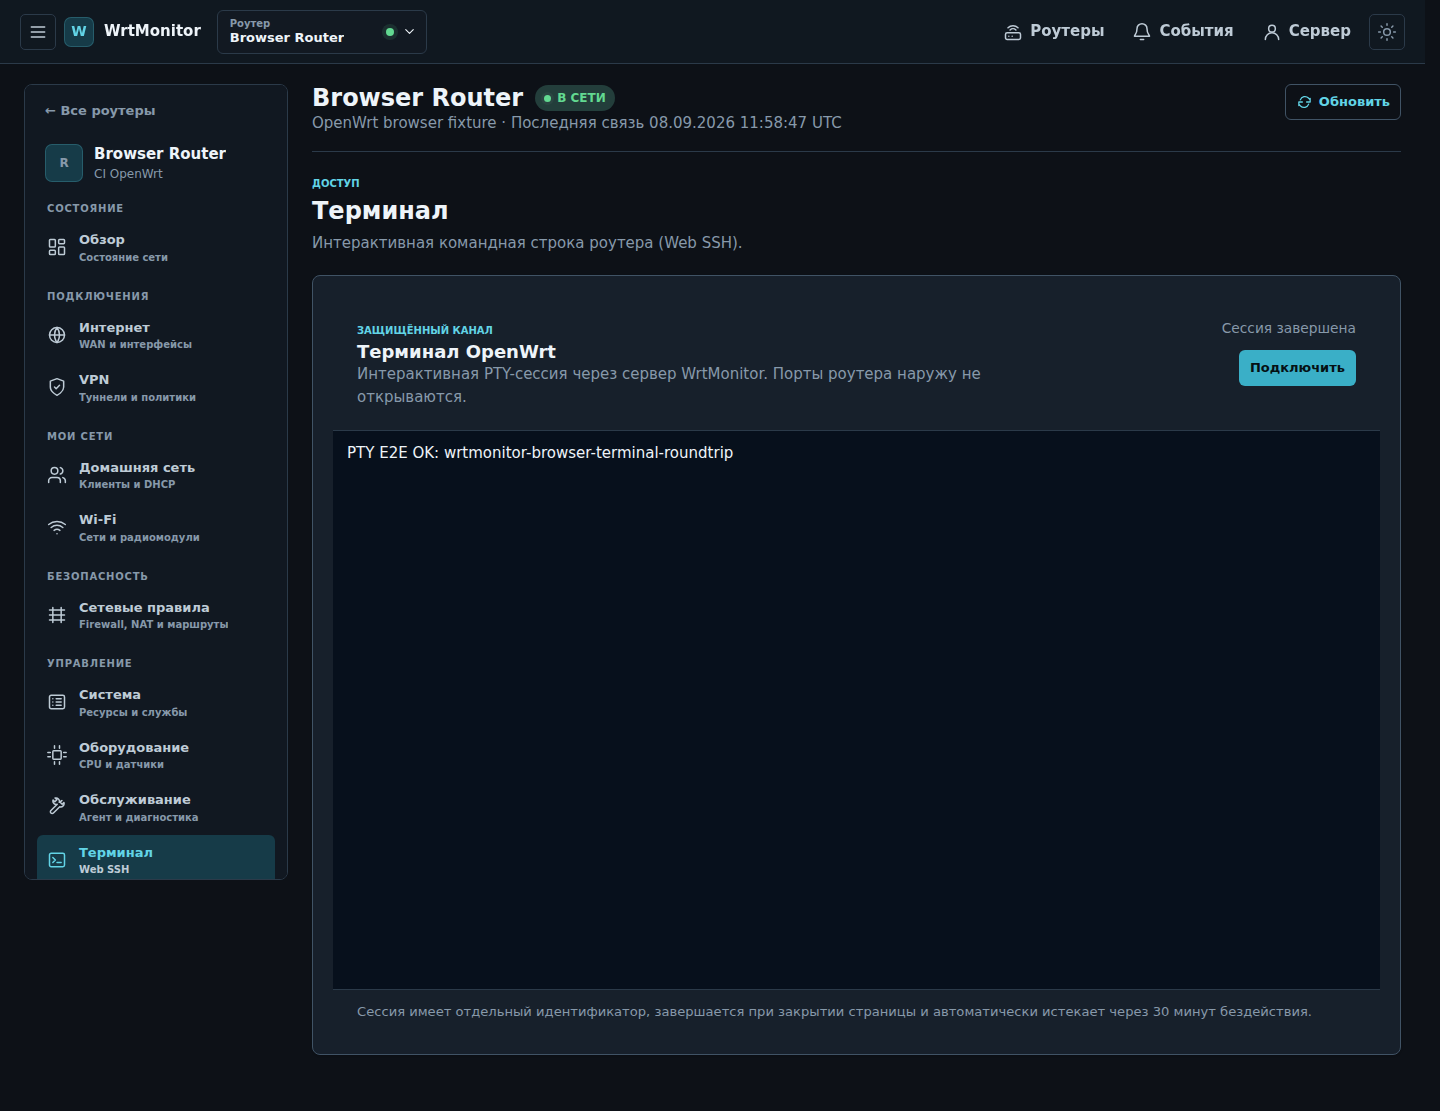
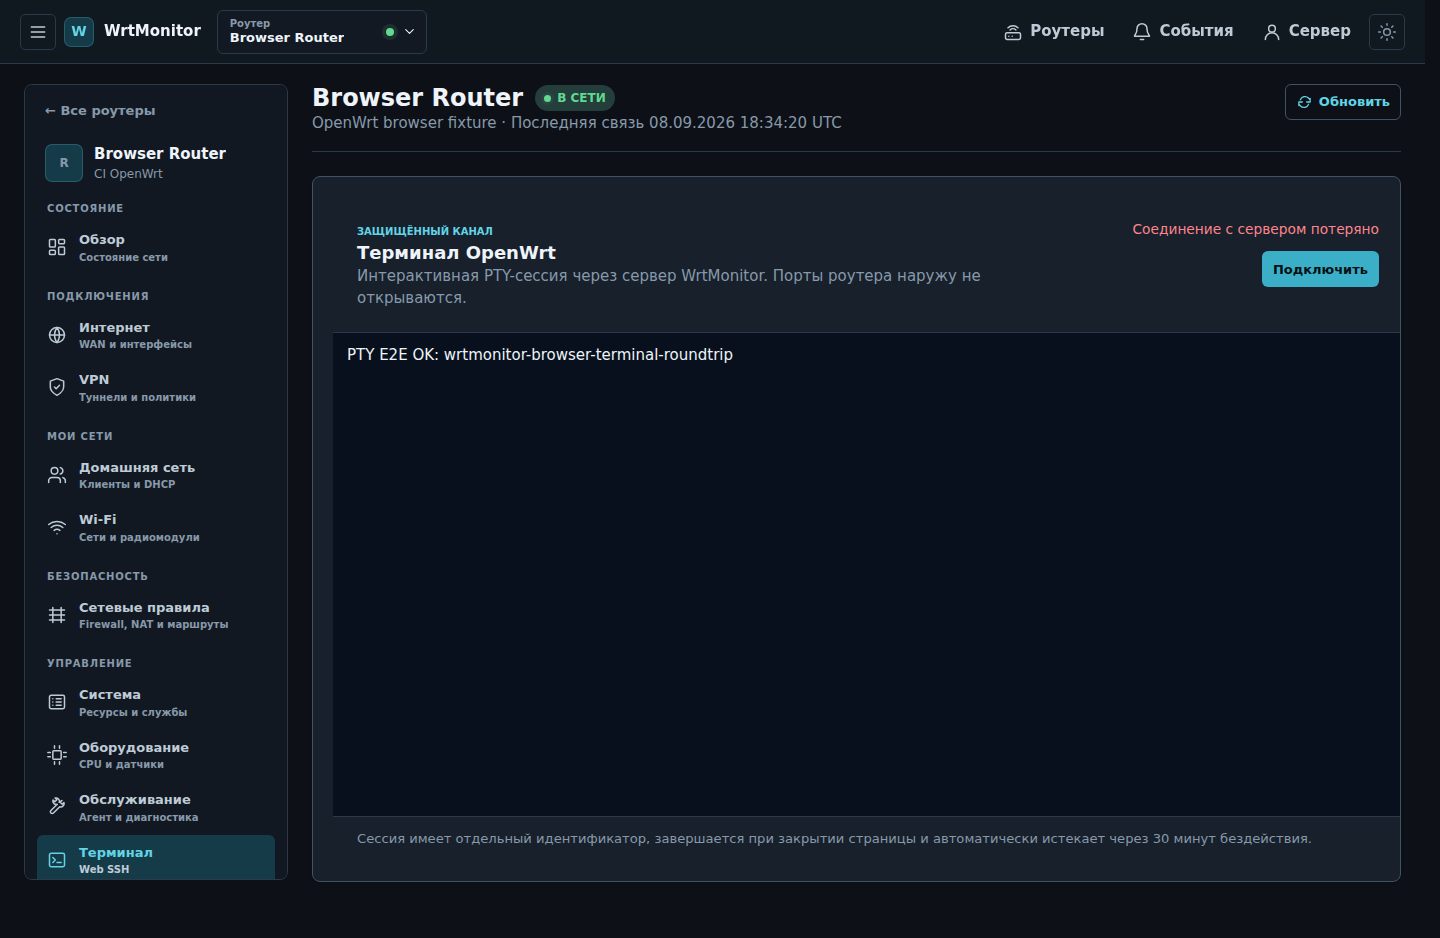
chore(release): prepare v0.55.1 terminal layout fix

diff --git a/RELEASE_NOTES.md b/RELEASE_NOTES.md
@@ -1,21 +1,17 @@
-# WrtMonitor v0.55.0 - Web Control Center
+# WrtMonitor v0.55.1 - Web Terminal Layout
 
-WebUI системно переработан как самостоятельная современная панель управления OpenWrt. Backend API, авторизация, telemetry и команды агента не менялись.
+Патч исправляет компоновку Web SSH после редизайна `0.55.0`. Backend API, авторизация, telemetry и команды агента не менялись.
 
-## Главное
+## Исправлено
 
-- единая светлая и тёмная Web design system, связанная с Android;
-- компактная top bar, глобальный router selector и сворачиваемая desktop sidebar;
-- адаптивный drawer и одноколоночная компоновка на tablet/mobile;
-- согласованные dashboard, tables, forms, statuses, dialogs и служебные экраны;
-- проверка изменений и видимая отправка команды без преждевременного сообщения об успехе;
-- keyboard navigation, skip link, focus-visible и reduced motion;
-- локальный набор сетевых иконок без CDN и emoji;
-- visual regression на шести размерах от 1920 до 390 px;
-- новые Web screenshots и полный отчёт в `docs/web-redesign-0.55.0.md`.
+- удалён повторяющийся заголовок «Терминал» над карточкой Web SSH;
+- desktop-карточка терминала целиком помещается в видимую область;
+- на телефоне сохранена компактная рабочая область с естественной короткой прокруткой;
+- добавлены браузерные проверки заголовка и размеров карточки;
+- стабилизирована инициализация постраничной навигации журнала команд.
 
-Исправлены обрезанные статусы, работа клавиатуры со скрытой навигацией, переход между desktop и mobile, обработка потери связи при проверке формы и отображение температуры на главной. Скриншоты сняты с тестовым роутером CI.
+Web SSH roundtrip, desktop `1440x900` и mobile `390x844` проверены в CI. Новый снимок терминала получен из того же браузерного прогона.
 
-Фиктивные данные и неподдерживаемые операции не добавлены. Runtime OpenWrt не менялся; аппаратное soak evidence Netis NX31 и OpenWrt x86 наследуется по совпадающему fingerprint. Android `versionCode`: `120`.
+Фиктивные данные и неподдерживаемые операции не добавлены. Runtime OpenWrt не менялся; аппаратное soak evidence Netis NX31 и OpenWrt x86 наследуется по совпадающему fingerprint. Android `versionCode`: `121`.
 
 Все версии до `1.0.0` остаются тестовыми.

diff --git a/README.md b/README.md
@@ -4,15 +4,16 @@
 
 ## Текущая версия
 
-Текущая тестовая версия: `0.55.0 Web Control Center`. Публичного стабильного релиза пока нет; тестовые базы можно пересоздавать между несовместимыми версиями.
+Текущая тестовая версия: `0.55.1 Web Control Center`. Публичного стабильного релиза пока нет; тестовые базы можно пересоздавать между несовместимыми версиями.
 
-Главное в `0.55.0`:
+Главное в `0.55.1`:
 
 - WebUI получил единую дизайн-систему WrtMonitor, связанную с Android по цветам, статусам, формам и терминологии;
 - постоянная desktop-навигация сворачивается, а на планшете и телефоне превращается в доступный drawer;
 - выбранный роутер и его состояние всегда видны в верхней панели;
 - dashboard, таблицы, формы и диалоги приведены к одной плотной композиции;
 - безопасные изменения показывают предварительную проверку и отправку команды;
+- Web SSH больше не дублирует заголовок и аккуратно помещается в рабочую область экрана;
 - API, telemetry и команды управления не менялись, фиктивные показатели не добавлялись.
 
 Полная история изменений: [CHANGELOG.md](CHANGELOG.md).

diff --git a/CHANGELOG.md b/CHANGELOG.md
@@ -1,5 +1,13 @@
 # Changelog
 
+## v0.55.1
+
+- Убран повторяющийся заголовок на странице Web SSH.
+- Высота терминала ограничена видимой областью desktop-экрана; мобильная компоновка стала короче и сохраняет рабочую область PTY.
+- Browser smoke теперь проверяет единственный заголовок и геометрию карточки на desktop/mobile.
+- Устранена гонка инициализации проверки постраничной навигации журнала команд.
+- Android `versionCode` повышен до `121`.
+
 ## v0.55.0
 
 - WebUI переведён на централизованную дизайн-систему WrtMonitor с семантическими токенами и согласованными dark/light themes.

diff --git a/docs/roadmap.md b/docs/roadmap.md
@@ -9,6 +9,14 @@
 - `hardware verified` - приложен полный отчёт физического OpenWrt;
 - `beta accepted` - функция выдержала публичное тестирование.
 
+## v0.55.1 - Web Terminal Layout
+
+- один заголовок страницы Web SSH без повторяющегося вводного блока;
+- ограниченная по viewport высота терминальной карточки;
+- desktop/mobile visual regression геометрии терминала.
+
+Статус: реализовано и проверено в браузерном CI.
+
 ## v0.55.0 - Web Control Center
 
 - централизованные design tokens и единая светлая/тёмная продуктовая тема;
